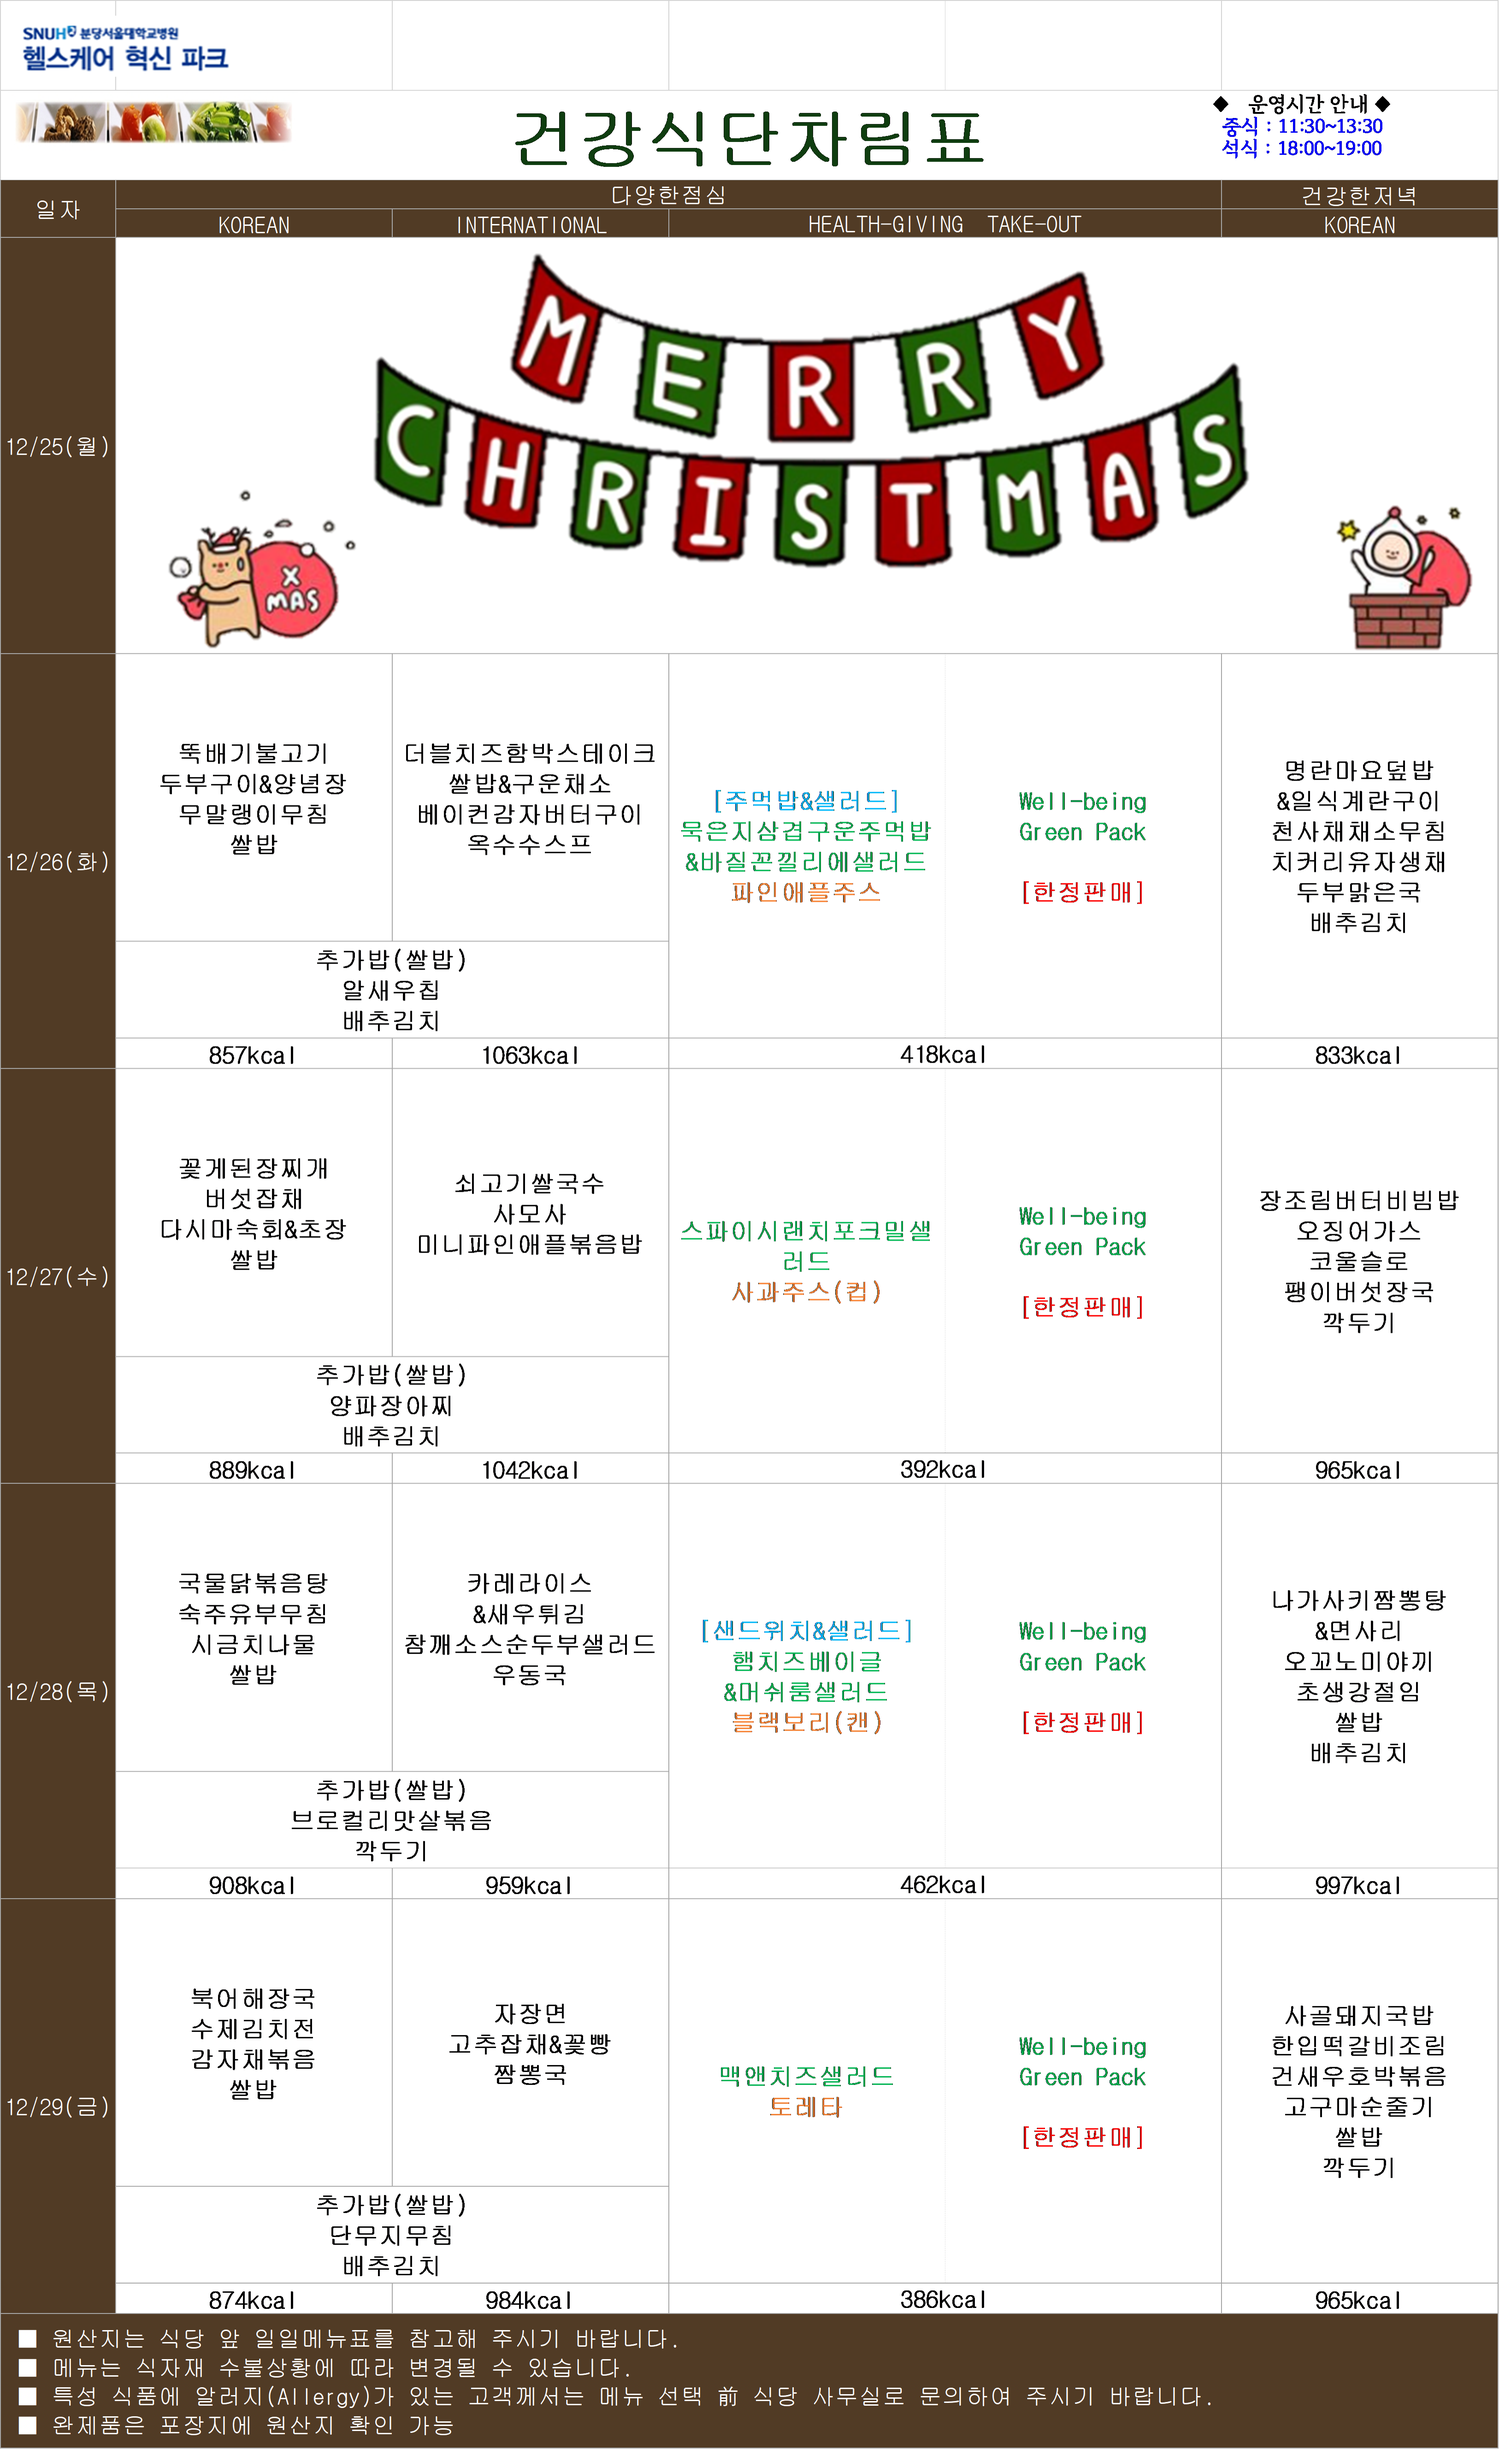
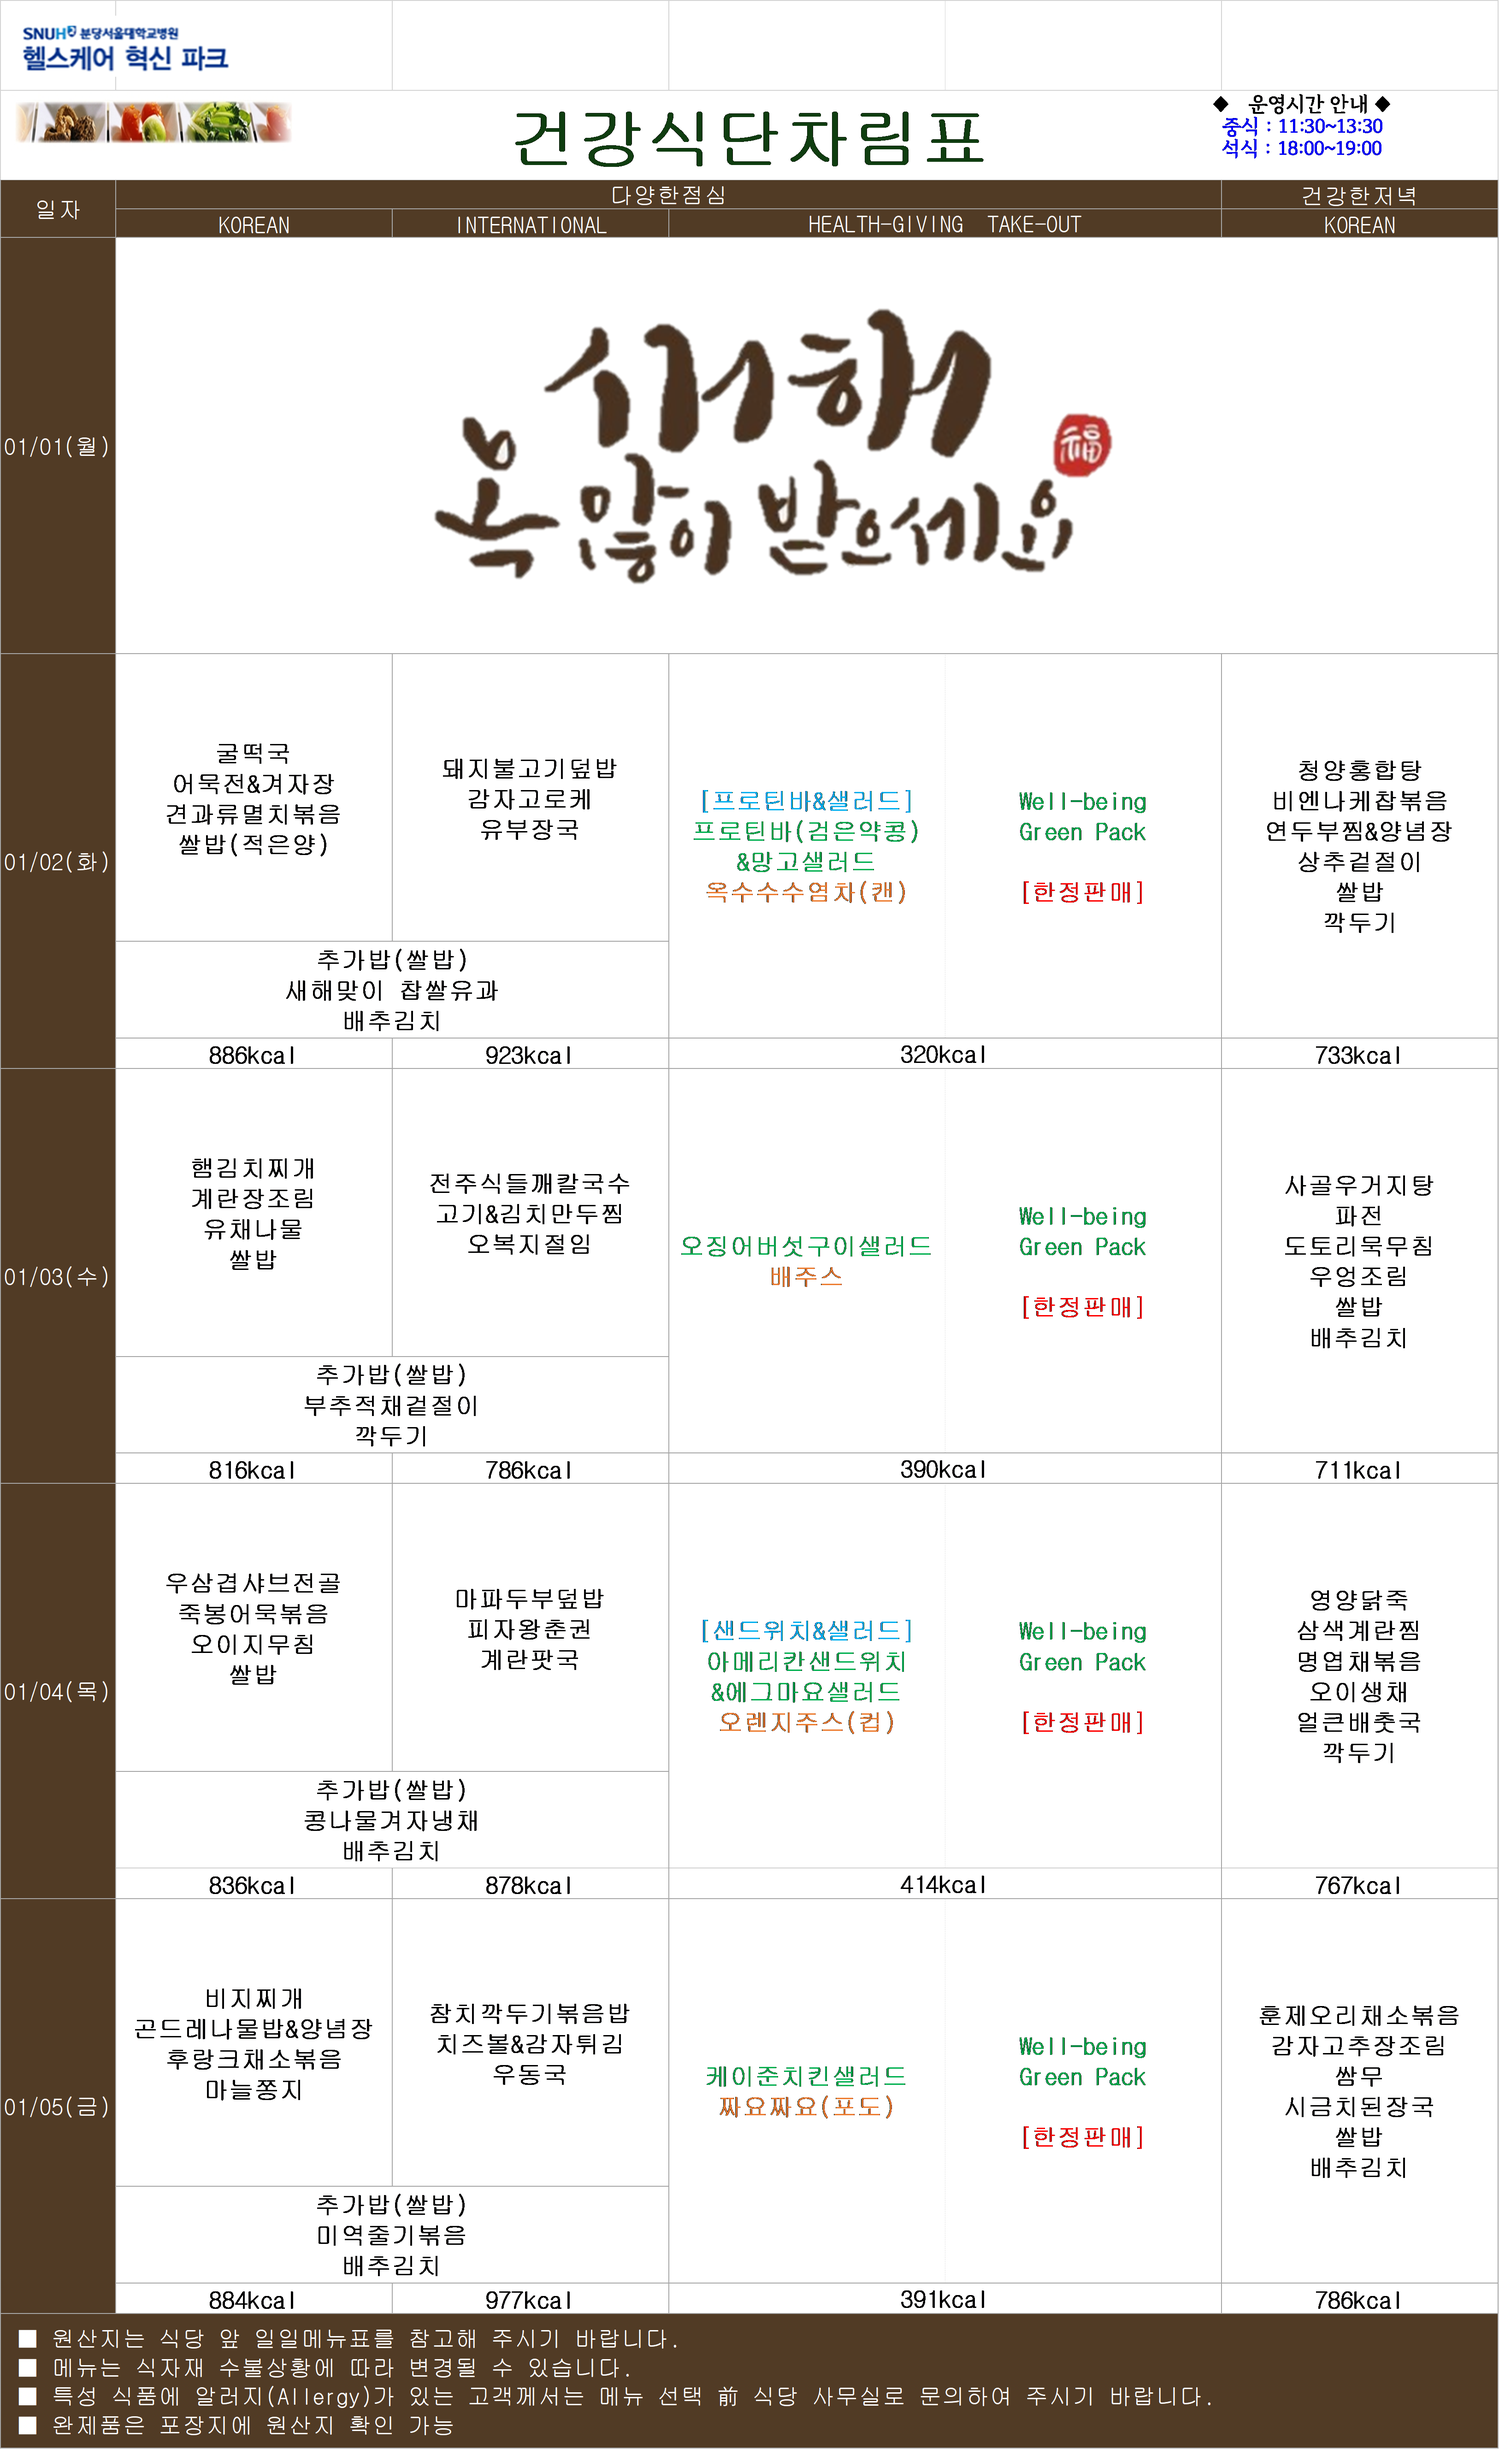
Add files via upload

diff --git a/6/index.html b/6/index.html
@@ -12,12 +12,12 @@
 <h2> 메뉴 업데이트는 주인장 여유가 되면 합니다. (이미지 확대해서 보세요) <br> </h2>
 
 <br>
-<h1> 12월 3주차 </h1>
+<h1> 1월 1주차 </h1>
 <img src="수술.png" width="100%">
 
 <audio src="https://clova-x.github.io/snubhnojo/mu/snow.mp3" autoplay loop></audio>
 
-<h6> Last update 2023/12/18  </h6>  
+<h6> Last update 2023/12/29  </h6>  
 <h1 >맛있게 드세요.  </h1> 
 
 </body>

diff --git a/1/index.html b/1/index.html
@@ -13,7 +13,7 @@
 
 
 <br>
-<h1> 12월 3주차  </h1>
+<h1> 1월 1주차  </h1>
 <img src="1동.png" width="100%">
 
 <br>
@@ -21,7 +21,7 @@
 <audio src="https://clova-x.github.io/snubhnojo/mu/snow.mp3" autoplay loop></audio>
 
 
-<h6> Last update 2023/12/18  </h6>  
+<h6> Last update 2023/12/29  </h6>  
 <h1 >맛있게 드세요.  </h1> 
 
 </body>

diff --git a/2/index.html b/2/index.html
@@ -14,14 +14,14 @@
 
 
 <br>
-<h1> 12월 3주차  </h1>
+<h1> 1월 1주차  </h1>
 <img src="HIP.png" width="100%">
 
 <br>
 
 <audio src="https://clova-x.github.io/snubhnojo/mu/snow.mp3" autoplay loop></audio>
 
-<h6> Last update 2023/12/18  </h6>  
+<h6> Last update 2023/12/29  </h6>  
 <h1 >맛있게 드세요.  </h1> 
 
 </body>
